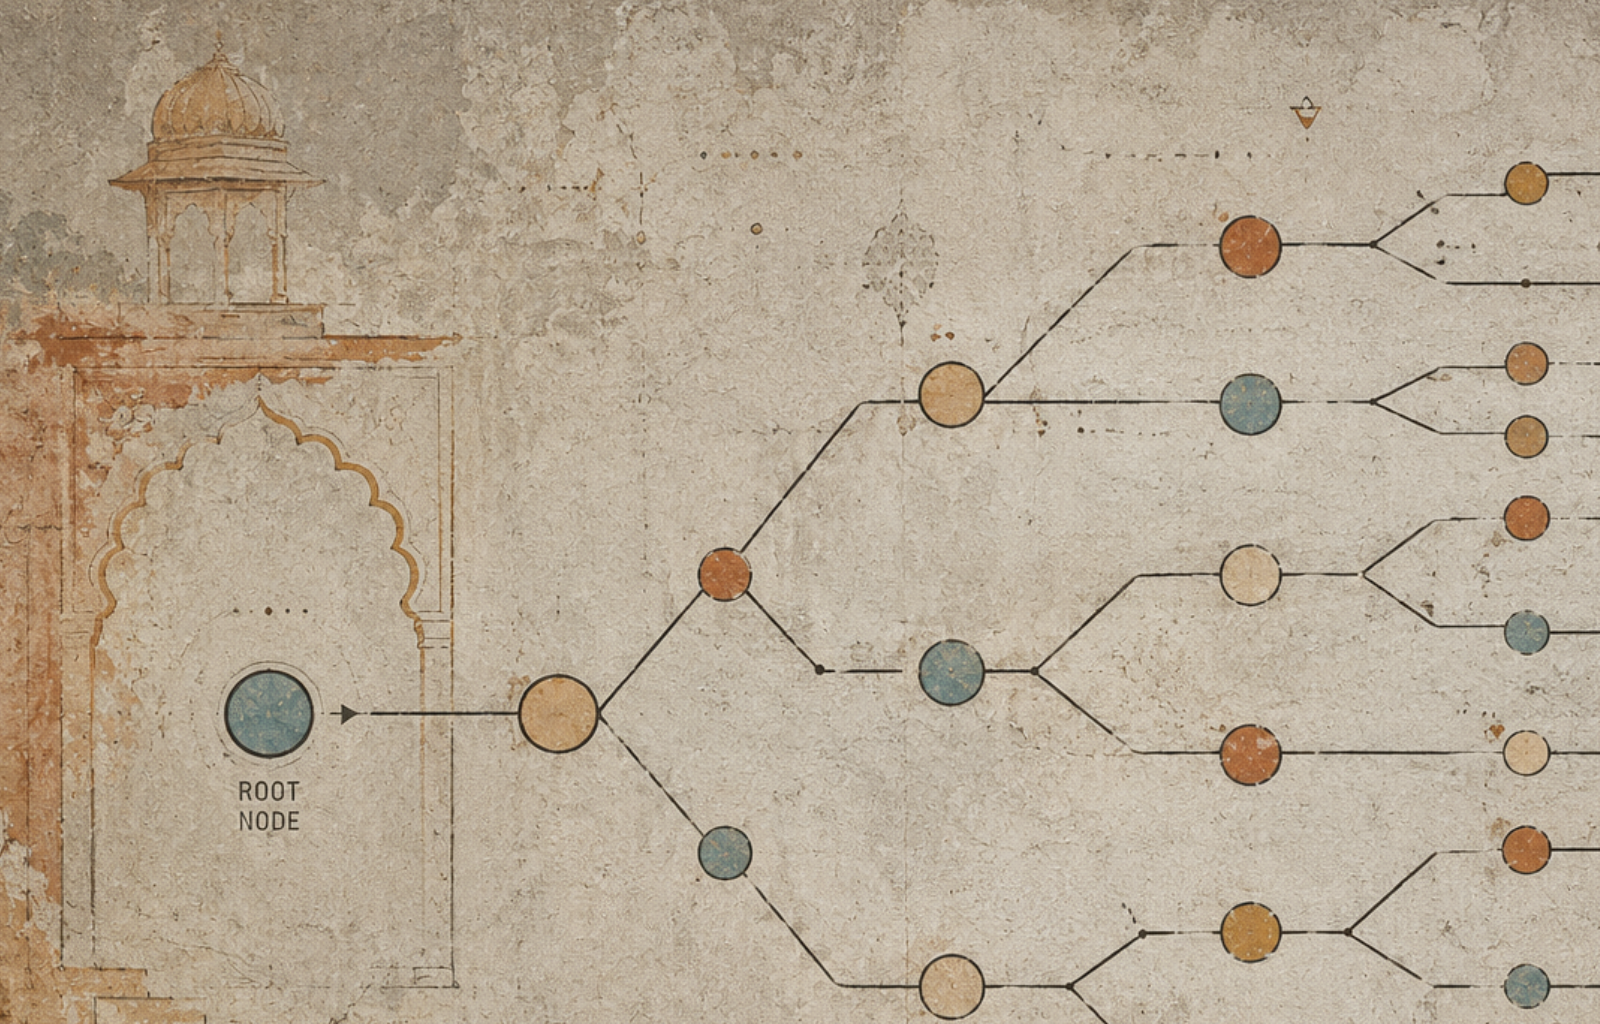
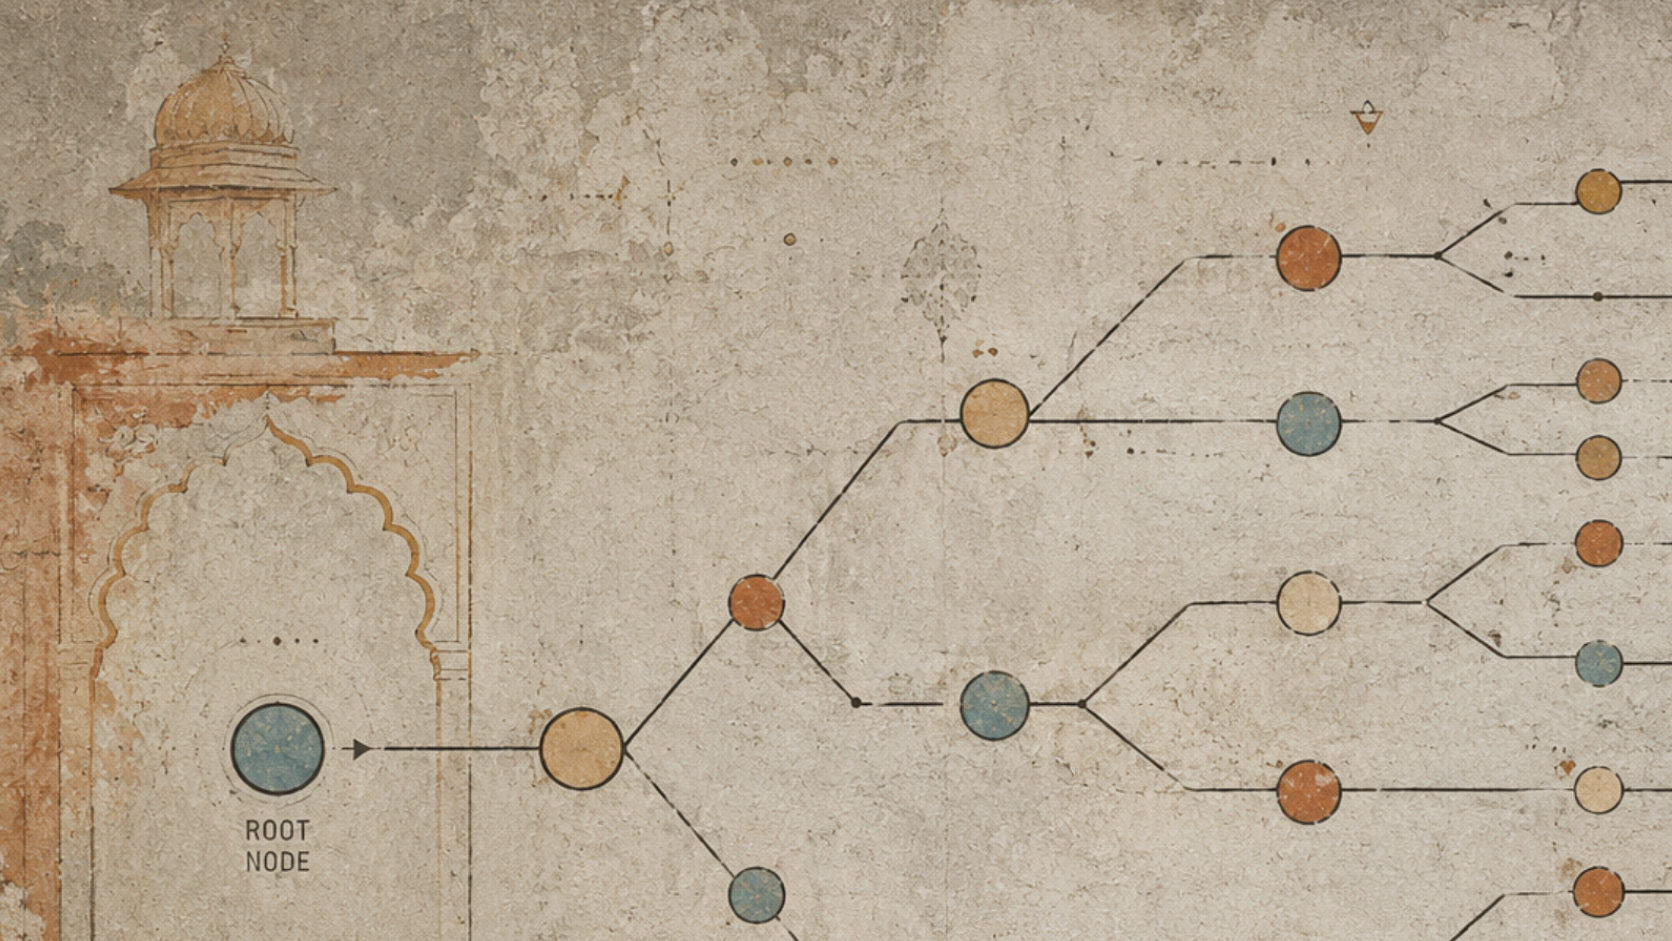
feat: white highlights in day mode, per-card hover boost, updated normal maps
- Update feature-card normal maps and image underlays (graph/money/evolve)
- Hover boosts only the hovered card's normal strength and light brightness
- Keep other cards' normal map on hover; only fade their image underlay
- Day mode uses white highlights (cards + logo); blue accent night-only
- Add offset ring and blue text on card hover
- Increase background grain intensity

diff --git a/src/components/GraphCardBackground.jsx b/src/components/GraphCardBackground.jsx
@@ -3,11 +3,11 @@ import { useEffect, useRef } from 'react'
 export default function GraphCardBackground({ normalMap = '/graph-normal.png', threshold = 0.90, image = null, accent = false, dim = false, children }) {
   const canvasRef = useRef(null)
   const rafRef = useRef(null)
-  const targetRef = useRef({ accent: accent ? 1 : 0, strength: dim ? 0 : 1 })
+  const targetRef = useRef({ accent: accent ? 1 : 0, strength: 1 })
 
   useEffect(() => {
     targetRef.current.accent = accent ? 1 : 0
-    targetRef.current.strength = dim ? 0 : 1
+    targetRef.current.strength = 1
   }, [accent, dim])
 
   useEffect(() => {
@@ -65,7 +65,7 @@ export default function GraphCardBackground({ normalMap = '/graph-normal.png', t
 
         vec3 n = texture2D(uNormalMap, uv).rgb * 2.0 - 1.0;
         n.y = -n.y;
-        n.xy *= 1.3;
+        n.xy *= mix(1.3, 2.4, uAccent);
         n = normalize(n);
 
         vec3 fragPos = vec3(gl_FragCoord.xy, 0.0);
@@ -90,12 +90,12 @@ export default function GraphCardBackground({ normalMap = '/graph-normal.png', t
         vec3 lightAlbedo = vec3(0.18, 0.18, 0.18);
         vec3 albedo = mix(dark, lightAlbedo, elevated);
 
-        // Light color: white by default, blue accent on hover
+        // Light color: white by default, blue accent on hover (night only; day stays white)
         vec3 accentColor = vec3(0.357, 0.553, 0.937);
-        vec3 lightColor = mix(vec3(1.0), accentColor, uAccent);
+        vec3 lightColor = mix(vec3(1.0), accentColor, uAccent * uNight);
 
-        // Point light illuminates the albedo (dim, wide); strength fades other cards out
-        float lightAmt = diff * falloff * 0.28 * uStrength;
+        // Point light illuminates the albedo (dim, wide); brighter on hover
+        float lightAmt = diff * falloff * 0.28 * uStrength * mix(1.0, 2.6, uAccent);
         vec3 color = albedo * 0.85 + lightColor * lightAmt;
 
         float gray = dot(color, vec3(0.299, 0.587, 0.114));
@@ -242,7 +242,7 @@ export default function GraphCardBackground({ normalMap = '/graph-normal.png', t
   }, [normalMap, threshold, image])
 
   return (
-    <div className="relative w-full h-full overflow-hidden bg-[#15151a]">
+    <div className="relative w-full h-full bg-[#15151a]">
       {image && (
         <img
           src={image}

diff --git a/src/features-data.js b/src/features-data.js
@@ -2,14 +2,14 @@ export const FEATURES = [
   {
     name: '/Fork Any Conversation',
     desc: 'Furnace keeps a tree of your conversation, so you can branch off to explore any direction without losing your original work.',
-    normalMap: '/graph-stronger.png',
+    normalMap: '/graph_normal.png',
     image: '/graph.png',
   },
   {
     name: 'Save 50% Tokens by Indexing',
     desc: 'Furnace builds an index for every project, giving your agent the context it needs before you even start.',
-    normalMap: '/graph-stronger.png',
-    image: '/graph.png',
+    normalMap: '/money_normal.png',
+    image: '/money.png',
   },
   {
     name: 'Bring Your Own Keys',
@@ -20,7 +20,7 @@ export const FEATURES = [
   {
     name: '/Evolve Your Agent',
     desc: 'Everything in Furnace is customizable. Just ask for changes, like "add a monochrome theme to Furnace".',
-    normalMap: '/hand_normal.png',
-    image: '/hand.png',
+    normalMap: '/evolve_normal.png',
+    image: '/evolve.png',
   },
 ]

diff --git a/src/pages/Features.jsx b/src/pages/Features.jsx
@@ -29,12 +29,12 @@ export default function Features() {
                 dim={hovered !== null && hovered !== i}
               >
                 <div
-                  className={`h-full flex flex-col justify-between p-6 border text-left transition-colors duration-300 ${
-                    hovered === i ? 'border-accent/70' : 'border-white/8'
+                  className={`h-full flex flex-col justify-between p-6 border text-left outline outline-1 outline-offset-4 transition-[color,border-color,outline-color] duration-300 ${
+                    hovered === i ? 'border-white/70 outline-white/50 night:border-accent/70 night:outline-accent/50' : 'border-white/8 outline-transparent'
                   }`}
                 >
-                  <span className="font-bold uppercase text-[12px] tracking-[0.1em] text-white/95">{f.name}</span>
-                  <span className="text-white/65 leading-[1.6]">{f.desc}</span>
+                  <span className={`font-bold uppercase text-[12px] tracking-[0.1em] transition-colors duration-300 ${hovered === i ? 'text-white night:text-accent' : 'text-white/95'}`}>{f.name}</span>
+                  <span className={`leading-[1.6] transition-colors duration-300 ${hovered === i ? 'text-white/80 night:text-accent/80' : 'text-white/65'}`}>{f.desc}</span>
                 </div>
               </GraphCardBackground>
             </div>

diff --git a/src/pages/Home.jsx b/src/pages/Home.jsx
@@ -102,12 +102,12 @@ export default function Home() {
                   dim={hovered !== null && hovered !== i}
                 >
                   <div
-                    className={`h-full flex flex-col justify-between p-6 border text-left transition-colors duration-300 ${
-                      hovered === i ? 'border-accent/70' : 'border-white/8'
+                    className={`h-full flex flex-col justify-between p-6 border text-left outline outline-1 outline-offset-4 transition-[color,border-color,outline-color] duration-300 ${
+                      hovered === i ? 'border-white/70 outline-white/50 night:border-accent/70 night:outline-accent/50' : 'border-white/8 outline-transparent'
                     }`}
                   >
-                    <span className="font-mono font-bold uppercase text-[13px] tracking-[0.1em] text-white/95">{f.name}</span>
-                    <span className="font-serif text-[15px] leading-[1.6] text-white/65">{f.desc}</span>
+                    <span className={`font-mono font-bold uppercase text-[13px] tracking-[0.1em] transition-colors duration-300 ${hovered === i ? 'text-white night:text-accent' : 'text-white/95'}`}>{f.name}</span>
+                    <span className={`font-serif text-[15px] leading-[1.6] transition-colors duration-300 ${hovered === i ? 'text-white/80 night:text-accent/80' : 'text-white/65'}`}>{f.desc}</span>
                   </div>
                 </GraphCardBackground>
               </div>

diff --git a/public/shader.js b/public/shader.js
@@ -64,8 +64,8 @@
     uniform sampler2D uNormalMap;
 
     // Film grain from earendil-works/waves (martins upitis's film grain)
-    #define GRAIN_INTENSITY_DAY 0.28
-    #define GRAIN_INTENSITY_NIGHT 0.05
+    #define GRAIN_INTENSITY_DAY 0.45
+    #define GRAIN_INTENSITY_NIGHT 0.12
     #define GRAIN_SPEED 1.5
     #define GRAIN_MEAN 0.0
     #define GRAIN_VARIANCE_DAY 0.75

diff --git a/src/components/Chrome.jsx b/src/components/Chrome.jsx
@@ -79,10 +79,11 @@ export default function Chrome() {
             width="20"
             height="20"
             style={{ imageRendering: 'pixelated' }}
+            className="[filter:brightness(0)_invert(1)] night:[filter:none]"
           />
           <span
             id="logo"
-            className="font-mono text-[18px] uppercase whitespace-nowrap text-white/90 tracking-[0] group-hover:text-accent group-hover:[text-shadow:0_0_8px_rgba(91,141,239,0.6)]"
+            className="font-mono text-[18px] uppercase whitespace-nowrap text-white/90 tracking-[0] group-hover:text-white night:group-hover:text-accent night:group-hover:[text-shadow:0_0_8px_rgba(91,141,239,0.6)]"
           >
             FURNACE
           </span>